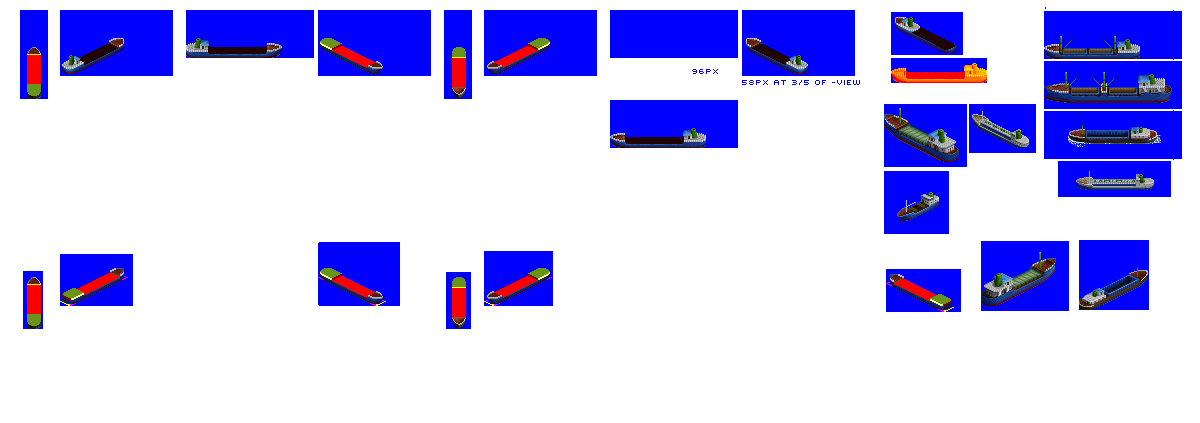
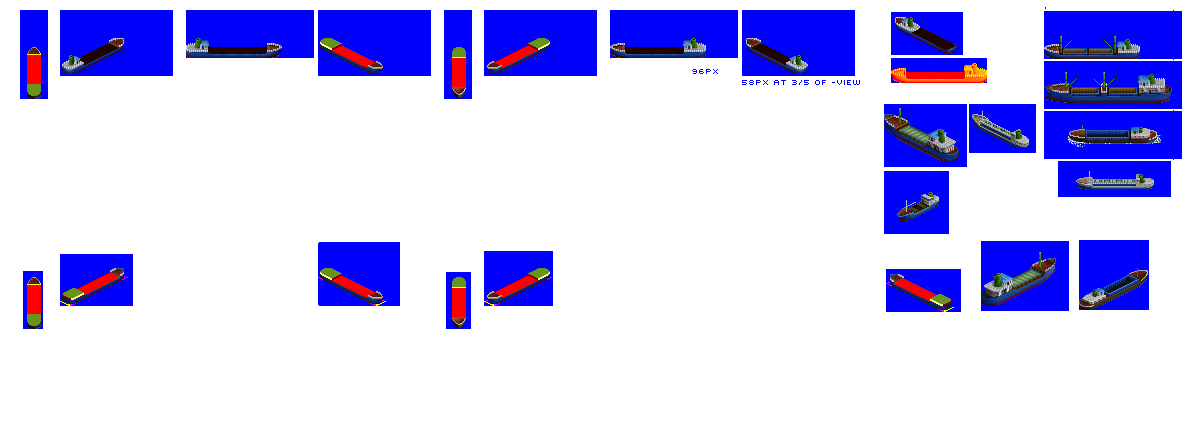
Change: WIP on small barge

Changed region(s): [[0.4933, 0.2151, 0.6167, 0.3688], [0.4933, 0.0922, 0.5858, 0.1537]]

diff --git a/src/hulls.py b/src/hulls.py
@@ -75,6 +75,15 @@ class SmallRiverboatHouseRear(Hull):
         self.effects_positions = [(11, 0, 24)]
 
 
+class SmallBargeHouseRear(Hull):
+    def __init__(self):
+        self.size_class = 'small'
+        self.hull_type = 'barge'
+        self.house_position = 'rear'
+        self.load_state_y_offsets = [('empty', -1), ('part_load', 0), ('full_load', 1)]
+        self.effects_positions = [(11, 0, 24)]
+
+
 class SmallShipHouseRear(Hull):
     def __init__(self):
         self.size_class = 'small'
@@ -114,6 +123,7 @@ registered_hulls = {'LargePushBargeHouseRear': LargePushBargeHouseRear(),
                     'LargeRiverboatHouseRear': LargeRiverboatHouseRear(),
                     'LargeShipHouseForward': LargeShipHouseForward(),
                     'LargeShipHouseRear': LargeShipHouseRear(),
+                    'SmallBargeHouseRear': SmallBargeHouseRear(),
                     'SmallRiverboatHouseRear': SmallRiverboatHouseRear(),
                     'SmallShipHouseRear': SmallShipHouseRear(),
                     'TwoWayFerryMini': TwoWayFerryMini(),

diff --git a/src/ships/flatdeck_barge_small.py b/src/ships/flatdeck_barge_small.py
@@ -4,7 +4,7 @@ from ship import FlatDeckBarge
 ship = FlatDeckBarge(id = 'flatdeck_barge_small',
                     numeric_id = 19,
                     title = 'Small [Flatdeck Barge]',
-                    hull = 'SmallShipHouseRear',
+                    hull = 'SmallBargeHouseRear',
                     buy_cost = 28,
                     fixed_run_cost_factor = 3.5,
                     fuel_run_cost_factor = 1.0,

diff --git a/src/ships/bulk_carrier_small.py b/src/ships/bulk_carrier_small.py
@@ -4,7 +4,7 @@ from ship import BulkCarrier
 ship = BulkCarrier(id = 'bulk_carrier_small',
                     numeric_id = 10,
                     title = 'Small [Bulk Barge]',
-                    hull = 'SmallShipHouseRear',
+                    hull = 'SmallBargeHouseRear',
                     buy_cost = 28,
                     fixed_run_cost_factor = 3.5,
                     fuel_run_cost_factor = 1.0,

diff --git a/src/ships/tanker_small.py b/src/ships/tanker_small.py
@@ -4,7 +4,7 @@ from ship import Tanker
 ship = Tanker(id = 'tanker_small',
             numeric_id = 1,
             title = 'Small [Tanker]',
-            hull = 'SmallRiverboatHouseRear',
+            hull = 'SmallBargeHouseRear',
             buy_cost = 28,
             fixed_run_cost_factor = 2.0,
             fuel_run_cost_factor = 1.8,
